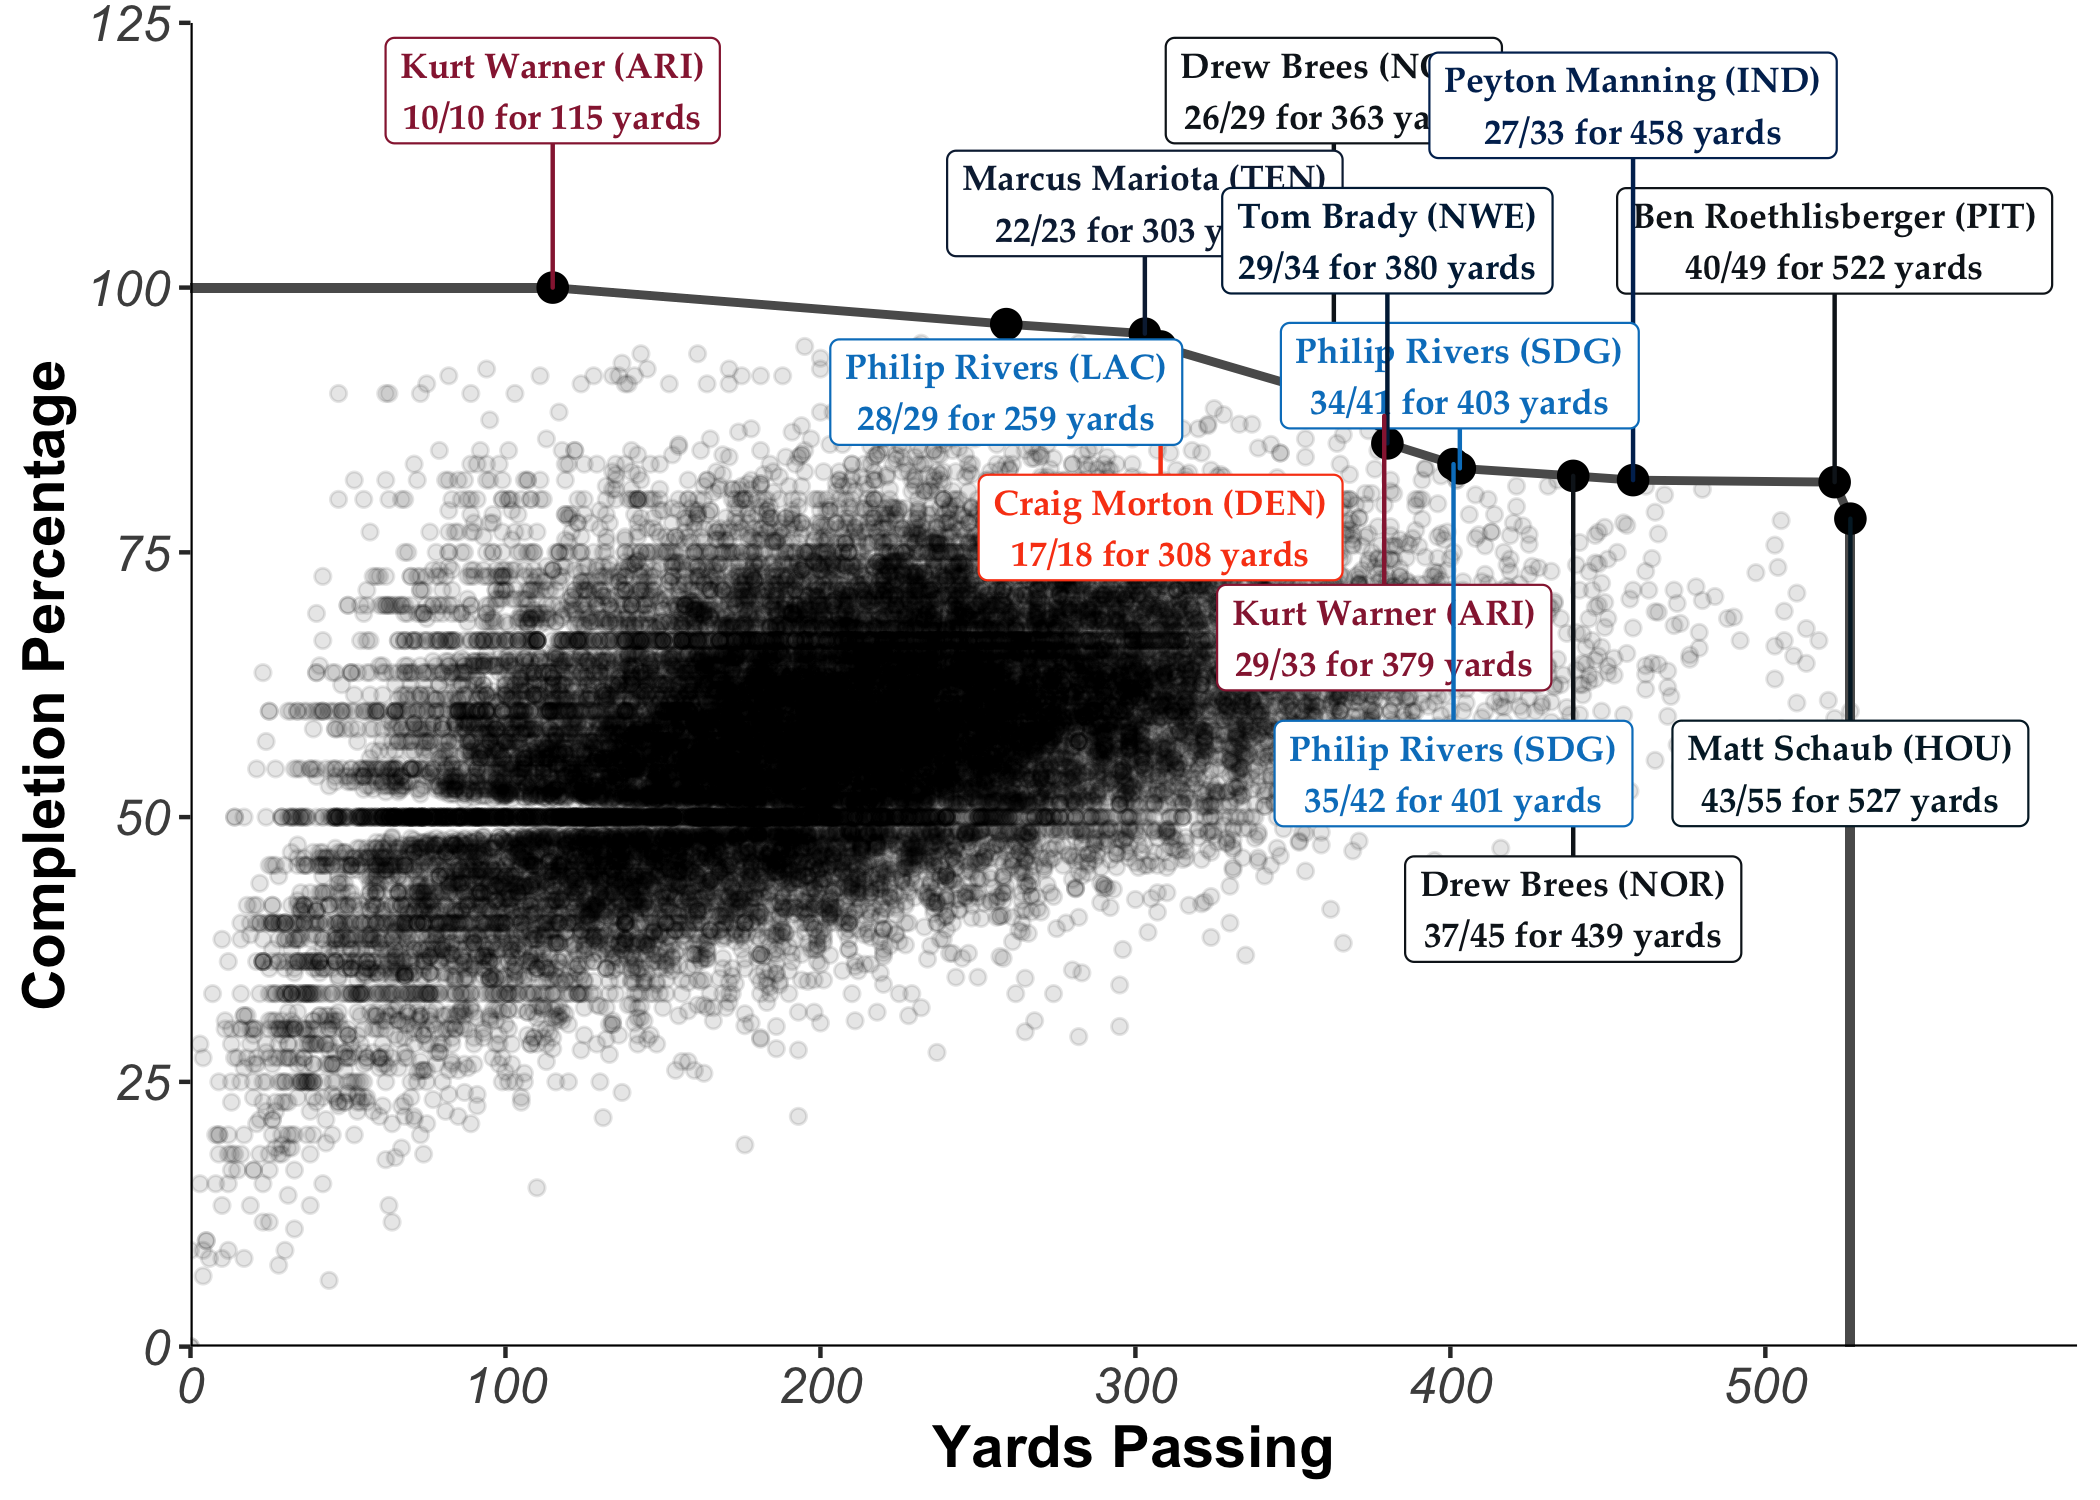
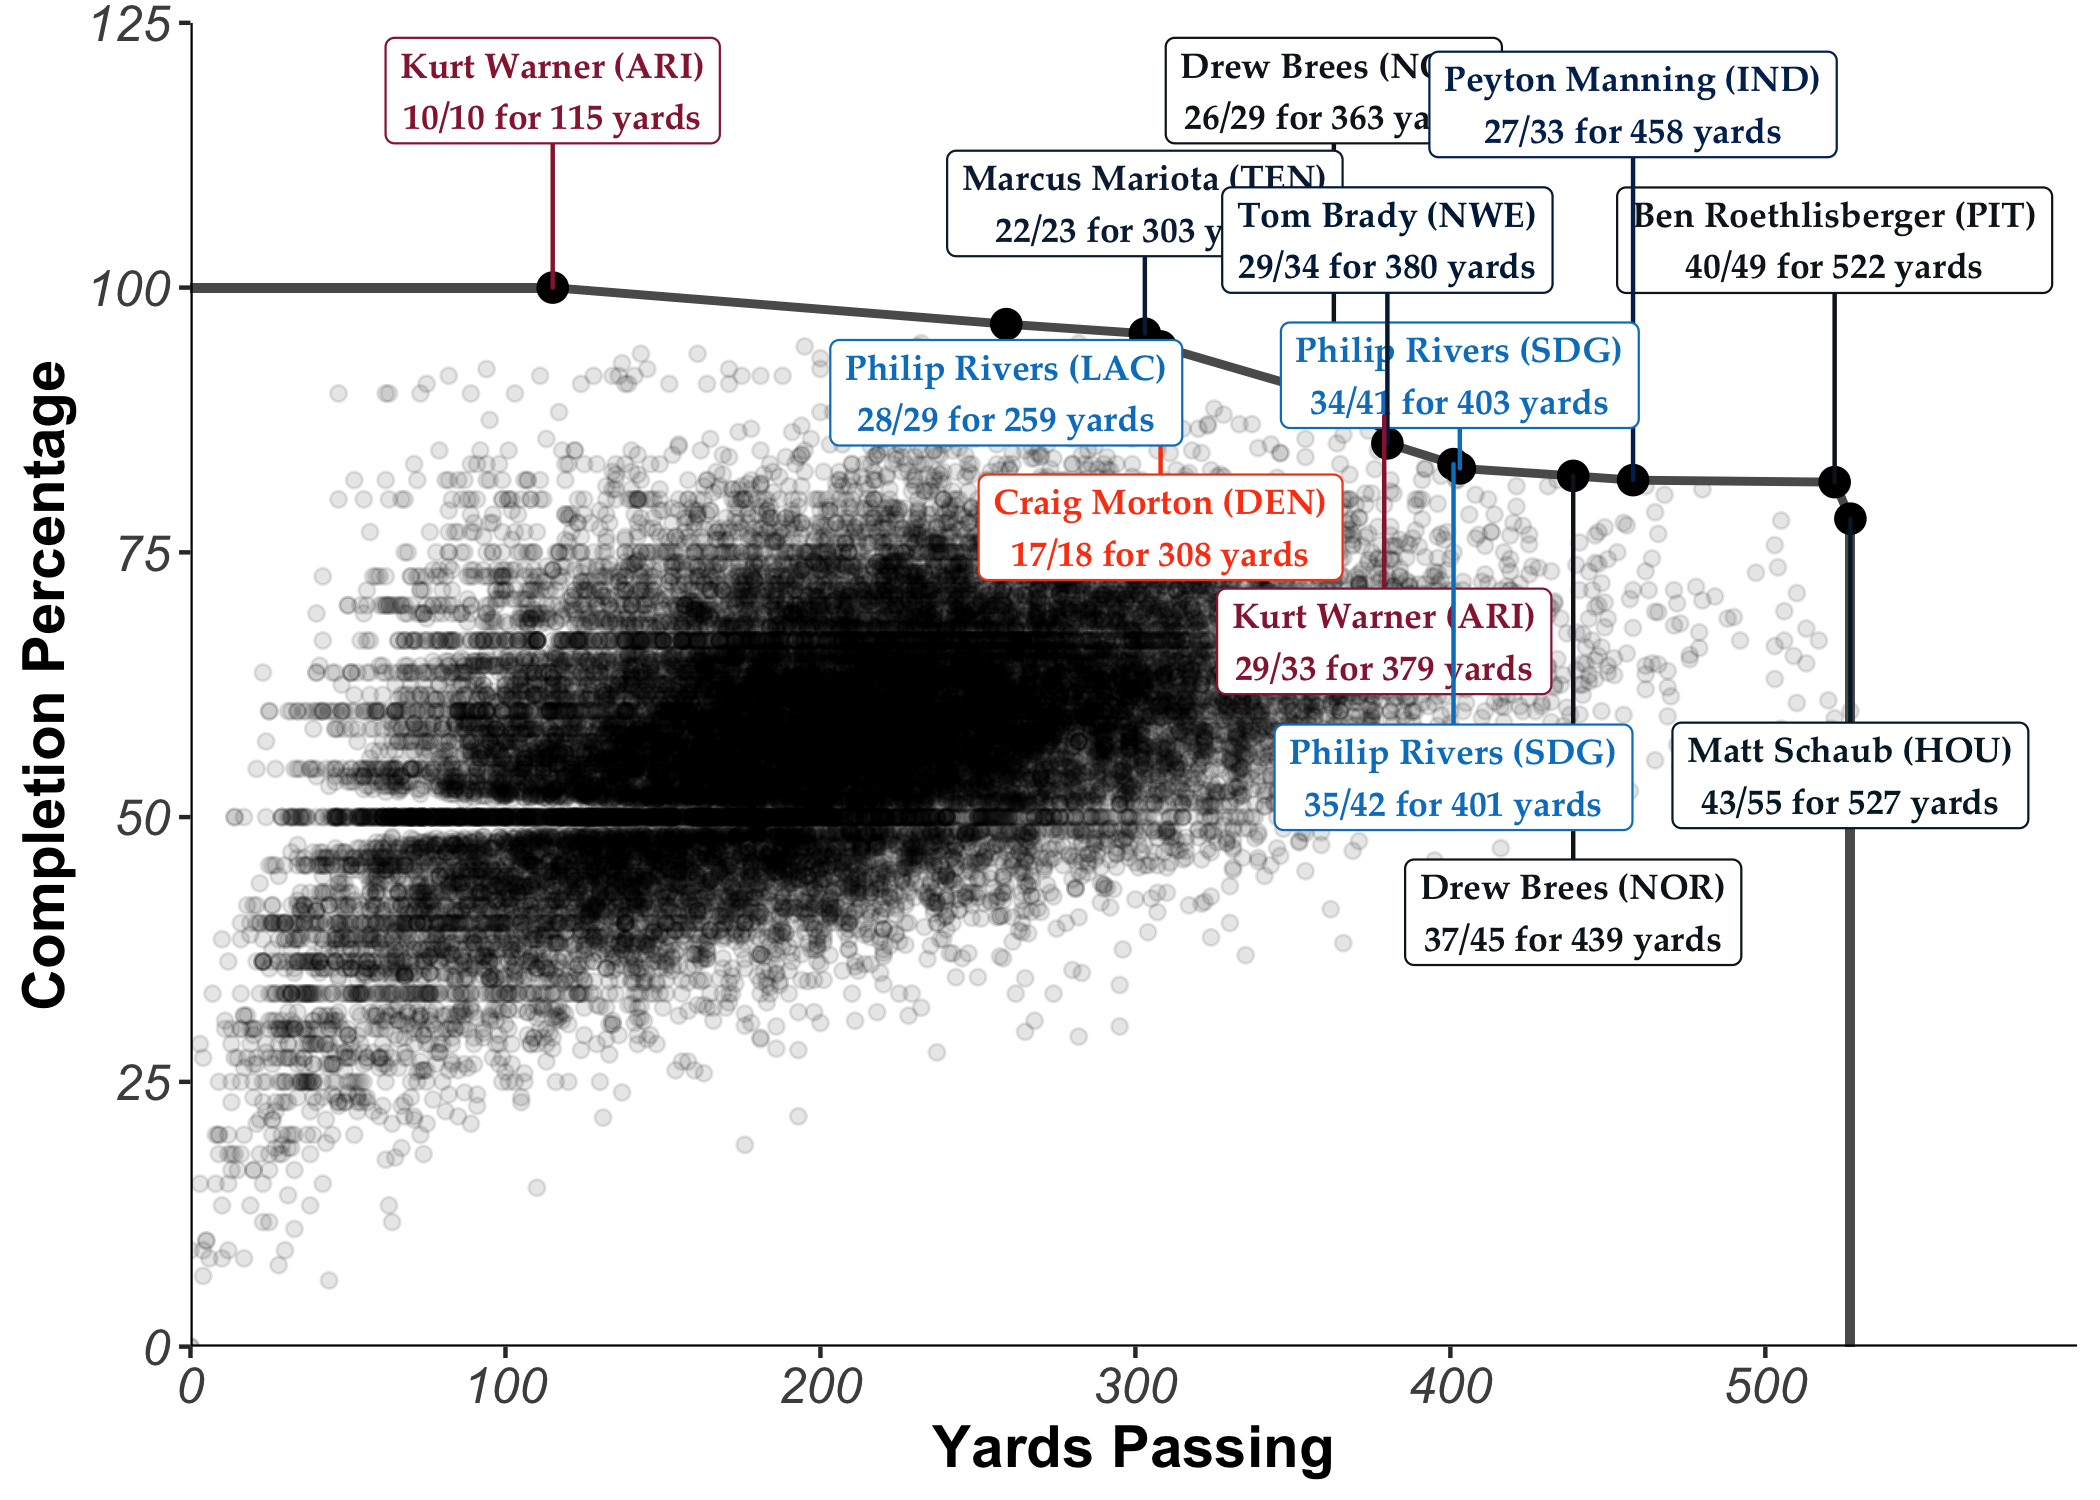
Fixed figures

diff --git a/README.md b/README.md
@@ -15,7 +15,7 @@ To prepare you for the charts I'll eventually present, here's an example I've pu
 
 ### Ex. the Pareto frontier for hypothetical Hall of Fame candidates
 
-<img src="README_files/figure-markdown_github/unnamed-chunk-1-1.png" width="65%" style="float:right; padding:10px" /> When choosing who to induct into the HOF each year, this particular committee bases their decision on two factors alone: 1) the number of MVP awards a player won, and 2) his number of Super Bowl rings. They will not vote a player in if there is another who outperforms (or equals and outperforms) him in **both** categories. In this sense, the class of inductees are the players on the Pareto frontier, beyond which there is no other player with an equal or greater number of both MVPs and rings.
+<img src="README_files/figure-markdown_github/unnamed-chunk-1-1.png" width="50%" style="float:right; padding:10px" /> When choosing who to induct into the HOF each year, this particular committee bases their decision on two factors alone: 1) the number of MVP awards a player won, and 2) his number of Super Bowl rings. They will not vote a player in if there is another who outperforms (or equals and outperforms) him in **both** categories. In this sense, the class of inductees are the players on the Pareto frontier, beyond which there is no other player with an equal or greater number of both MVPs and rings.
 
 A, B, and D are on the frontier because there is no other player with both more rings and more MVPs. C, however, does not get voted in. While he has more rings than A and B, D has even more -- and D also earned the same amount of MVPs. In this case, C is 'dominated by' D.
 
